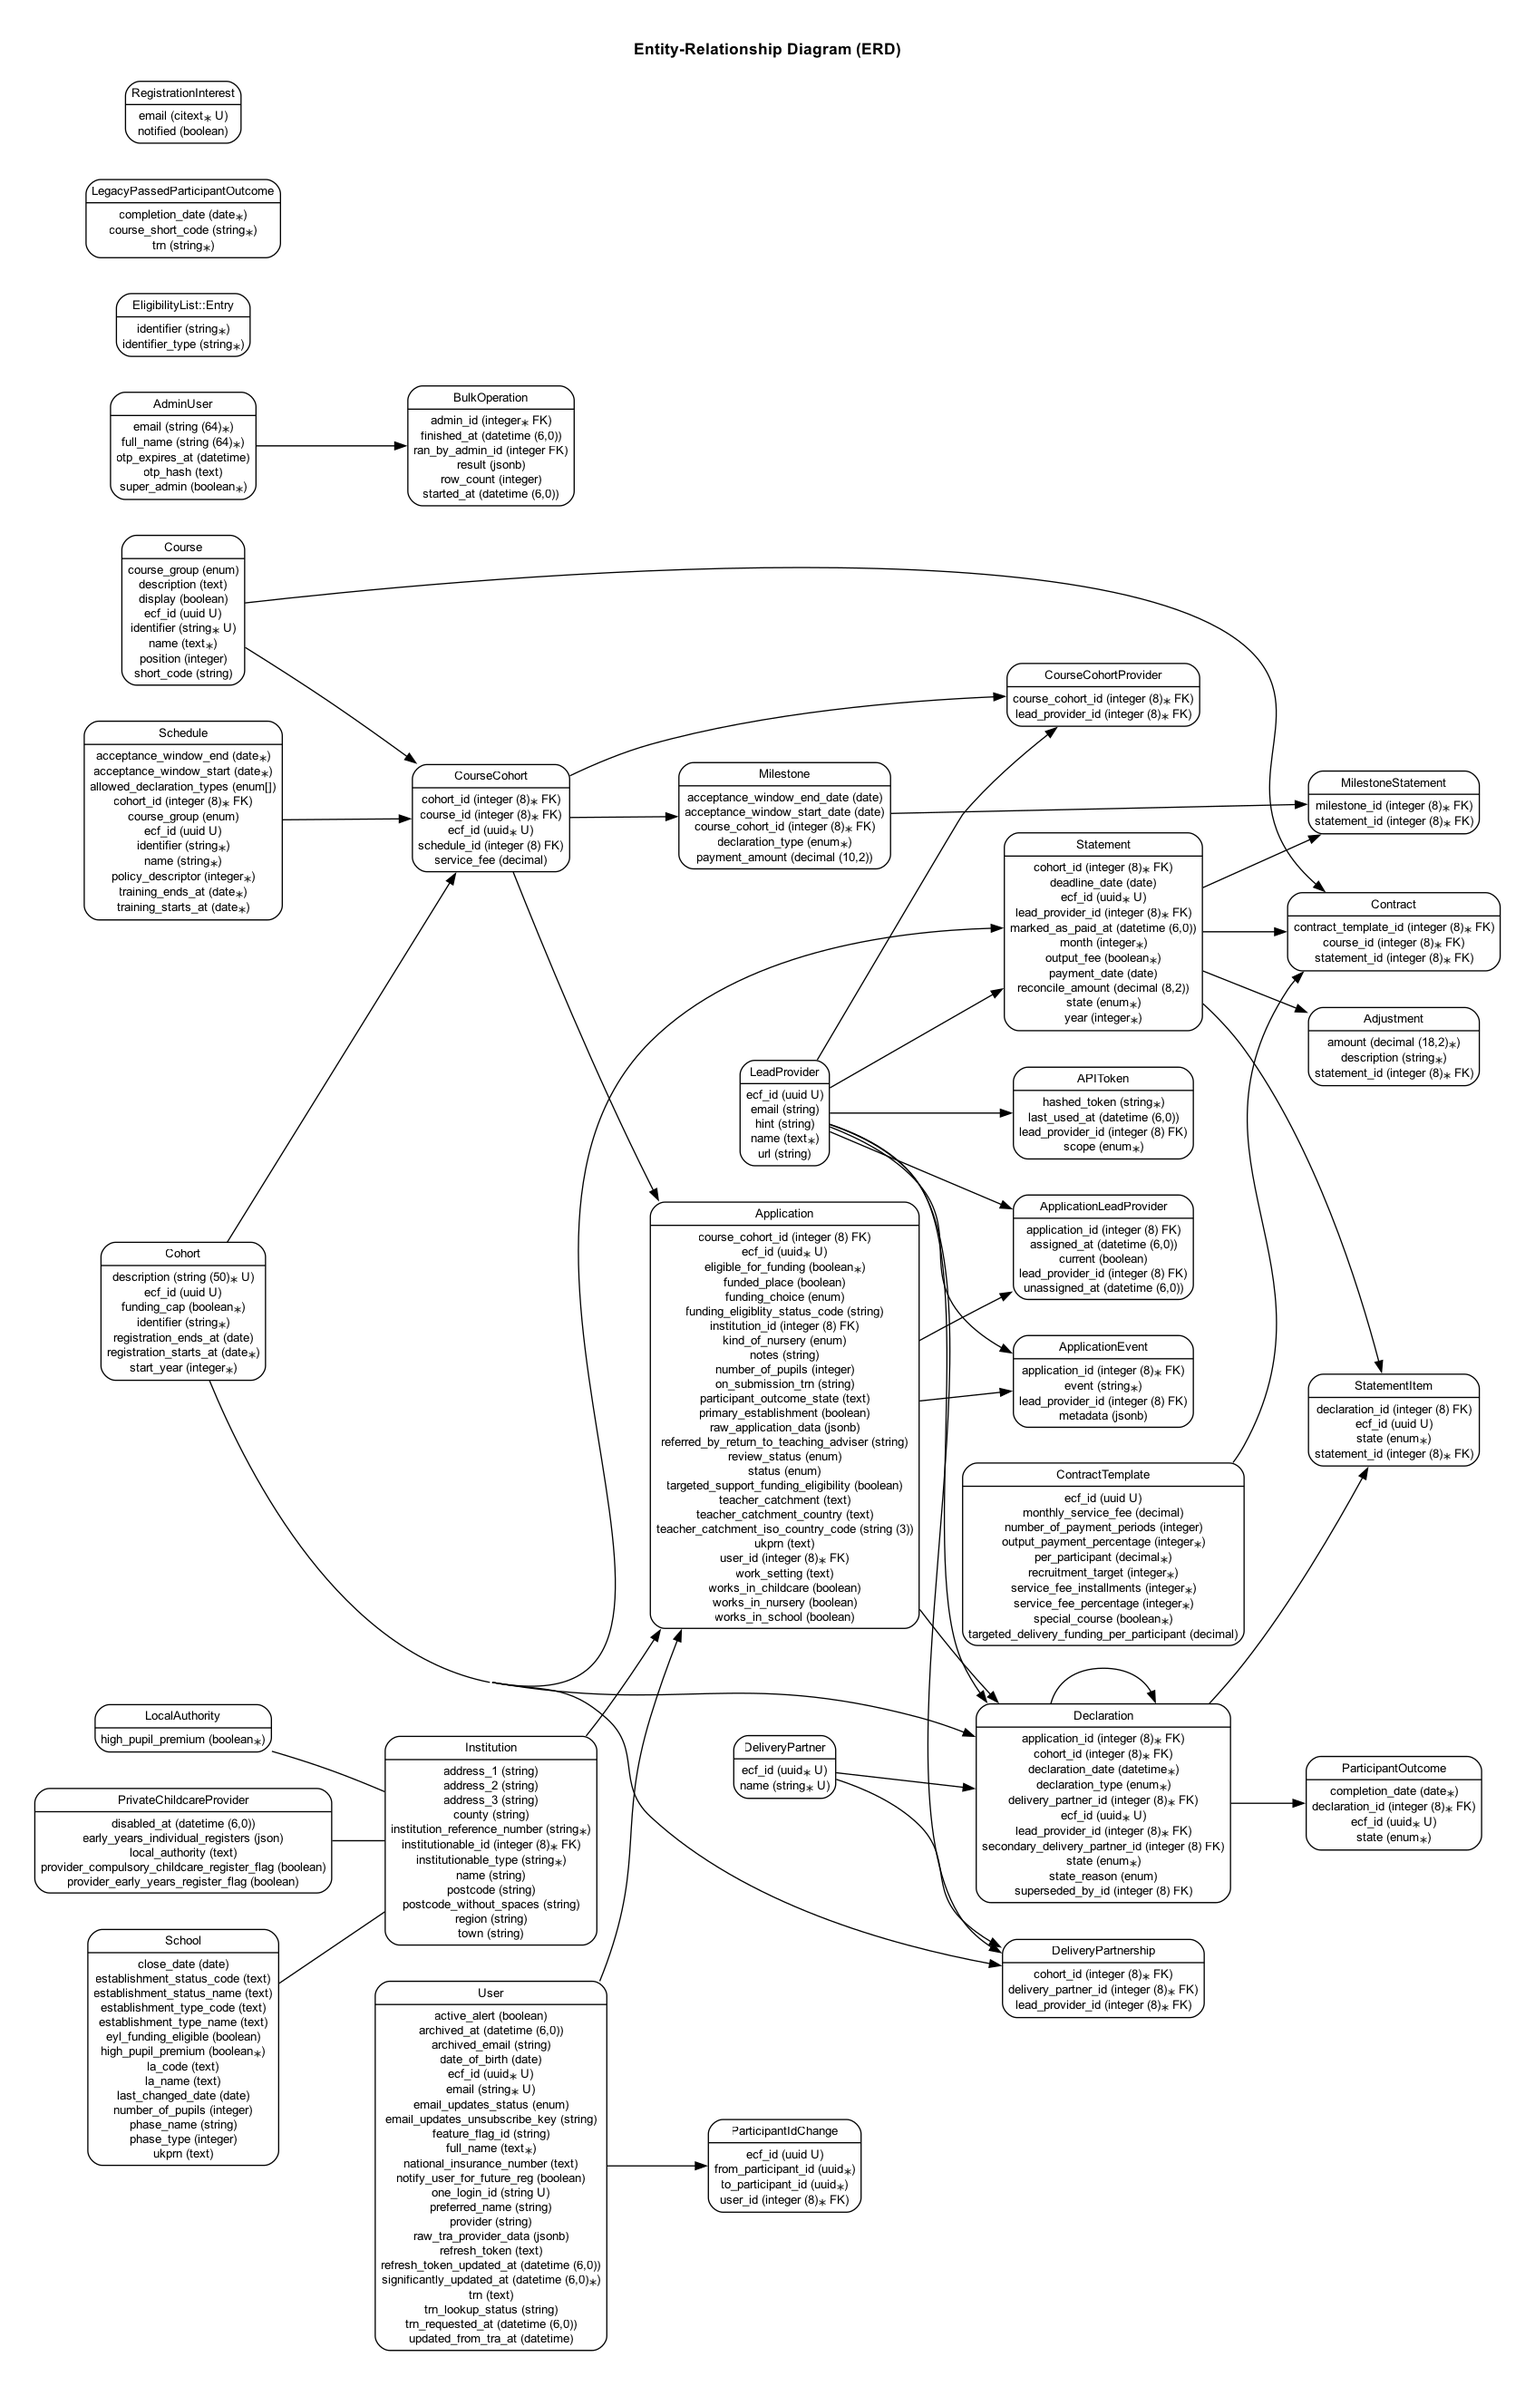
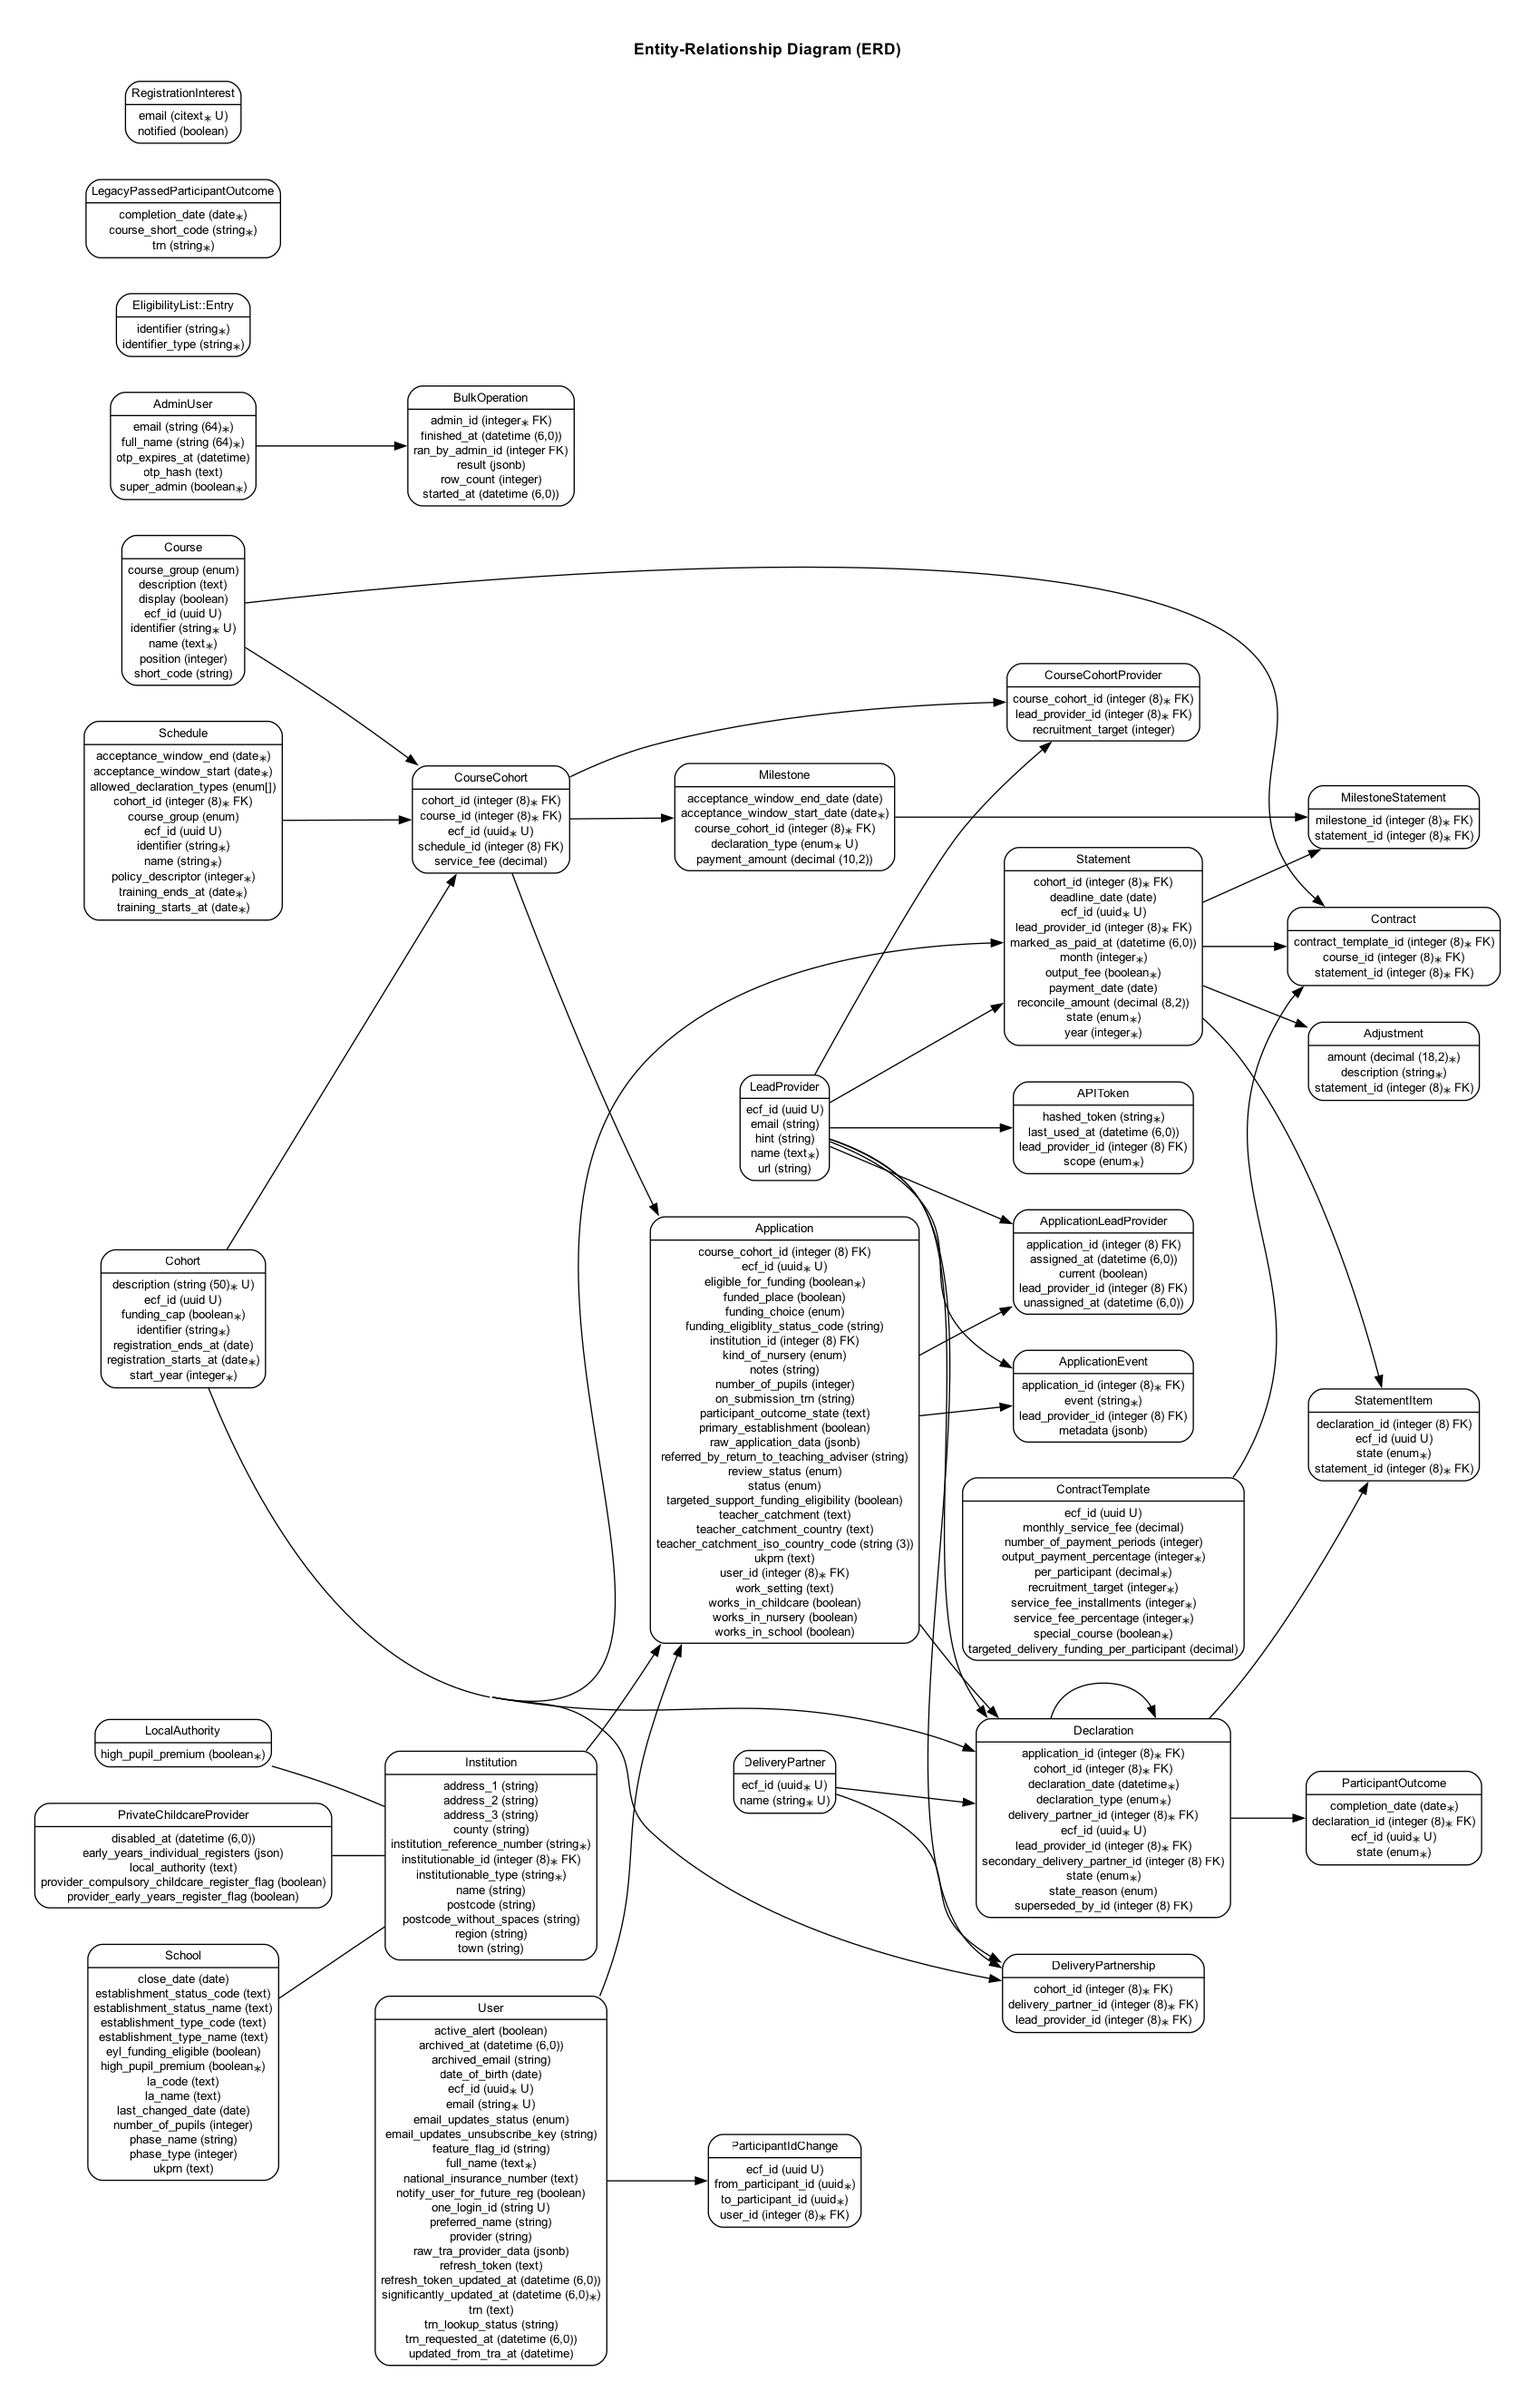
tweaks

diff --git a/spec/models/milestone_spec.rb b/spec/models/milestone_spec.rb
@@ -20,6 +20,64 @@ RSpec.describe Milestone, type: :model do
       it { is_expected.to have_error(:declaration_type, :inclusion, "The declaration type should be one of the ones allowed by the schedule") }
     end
 
+    context "when acceptance window start date is missing" do
+      subject(:milestone) { build(:milestone, acceptance_window_start_date: nil) }
+
+      it { is_expected.to have_error(:acceptance_window_start_date, :blank, "can't be blank") }
+    end
+
+    context "when creating a milestone with a declaration type that already exists for the course cohort" do
+      subject(:milestone) do
+        build(
+          :milestone,
+          course_cohort:,
+          declaration_type: "started",
+          acceptance_window_start_date: Date.new(2026, 2, 1),
+          acceptance_window_end_date: Date.new(2026, 2, 28),
+        )
+      end
+
+      let(:course_cohort) { create(:course_cohort) }
+
+      before do
+        create(
+          :milestone,
+          course_cohort:,
+          declaration_type: "started",
+          acceptance_window_start_date: Date.new(2026, 1, 1),
+          acceptance_window_end_date: Date.new(2026, 1, 31),
+        )
+      end
+
+      it { is_expected.to have_error(:declaration_type, :taken, "has already been taken") }
+    end
+
+    context "when creating a milestone with a declaration type that exists for another course cohort" do
+      let(:course_cohort) { create(:course_cohort) }
+
+      before do
+        create(
+          :milestone,
+          course_cohort: create(:course_cohort, cohort: create(:cohort, registration_starts_at: Date.new(2026, 2, 1))),
+          declaration_type: "started",
+          acceptance_window_start_date: Date.new(2026, 1, 1),
+          acceptance_window_end_date: Date.new(2026, 1, 31),
+        )
+      end
+
+      it "is valid" do
+        milestone = build(
+          :milestone,
+          course_cohort:,
+          declaration_type: "started",
+          acceptance_window_start_date: Date.new(2026, 1, 1),
+          acceptance_window_end_date: Date.new(2026, 1, 31),
+        )
+
+        expect(milestone).to be_valid
+      end
+    end
+
     context "when an acceptance window overlaps another milestone in the same course cohort" do
       subject(:milestone) do
         build(
@@ -101,10 +159,42 @@ RSpec.describe Milestone, type: :model do
 
   describe "#in_declaration_type_order" do
     let(:course_cohort) { create(:course_cohort) }
-    let(:started) { create(:milestone, declaration_type: "started", course_cohort:) }
-    let(:retained_1) { create(:milestone, declaration_type: "retained-1", course_cohort:) }
-    let(:retained_2) { create(:milestone, declaration_type: "retained-2", course_cohort:) }
-    let(:completed) { create(:milestone, declaration_type: "completed", course_cohort:) }
+    let(:started) do
+      create(
+        :milestone,
+        declaration_type: "started",
+        course_cohort:,
+        acceptance_window_start_date: Date.new(2026, 1, 1),
+        acceptance_window_end_date: Date.new(2026, 1, 31),
+      )
+    end
+    let(:retained_1) do
+      create(
+        :milestone,
+        declaration_type: "retained-1",
+        course_cohort:,
+        acceptance_window_start_date: Date.new(2026, 2, 1),
+        acceptance_window_end_date: Date.new(2026, 2, 28),
+      )
+    end
+    let(:retained_2) do
+      create(
+        :milestone,
+        declaration_type: "retained-2",
+        course_cohort:,
+        acceptance_window_start_date: Date.new(2026, 3, 1),
+        acceptance_window_end_date: Date.new(2026, 3, 31),
+      )
+    end
+    let(:completed) do
+      create(
+        :milestone,
+        declaration_type: "completed",
+        course_cohort:,
+        acceptance_window_start_date: Date.new(2026, 4, 1),
+        acceptance_window_end_date: Date.new(2026, 4, 30),
+      )
+    end
 
     before do
       # create deliberately out of order

diff --git a/db/migrate/20260715120000_add_course_cohort_reference_to_milestones.rb b/db/migrate/20260715120000_add_course_cohort_reference_to_milestones.rb
@@ -2,27 +2,17 @@ class AddCourseCohortReferenceToMilestones < ActiveRecord::Migration[8.1]
   disable_ddl_transaction!
 
   def up
-    unless column_exists?(:milestones, :course_cohort_id)
-      add_reference :milestones, :course_cohort, null: true, foreign_key: false, index: { algorithm: :concurrently }
-    end
-
     safety_assured do
-      execute <<~SQL.squish
-        UPDATE milestones
-        SET course_cohort_id = course_cohorts.id
-        FROM course_cohorts
-        WHERE course_cohorts.schedule_id = milestones.schedule_id
-          AND course_cohort_id IS NULL
-      SQL
+      # We're ok here because we don't have any milestones.
+      # rubocop:disable Rails/NotNullColumn
+      add_reference :milestones, :course_cohort, null: false, index: { algorithm: :concurrently }, foreign_key: true
+      # rubocop:enable Rails/NotNullColumn
     end
-
-    safety_assured { change_column_null :milestones, :course_cohort_id, false }
-    add_foreign_key :milestones, :course_cohorts, validate: false unless foreign_key_exists?(:milestones, :course_cohorts)
   end
 
   def down
-    remove_foreign_key :milestones, :course_cohorts
-    remove_index :milestones, :course_cohort_id, algorithm: :concurrently
-    remove_column :milestones, :course_cohort_id
+    remove_foreign_key :milestones, :course_cohorts if foreign_key_exists?(:milestones, :course_cohorts)
+    remove_index :milestones, :course_cohort_id, algorithm: :concurrently if index_exists?(:milestones, :course_cohort_id)
+    remove_column :milestones, :course_cohort_id if column_exists?(:milestones, :course_cohort_id)
   end
 end

diff --git a/spec/factories/statements.rb b/spec/factories/statements.rb
@@ -50,7 +50,29 @@ FactoryBot.define do
 
     trait :with_milestones do
       after :create do |statement|
-        create_list(:milestone_statement, 2, statement:)
+        course_cohort = create(:course_cohort, cohort: statement.cohort)
+        create(
+          :milestone_statement,
+          statement:,
+          milestone: create(
+            :milestone,
+            course_cohort:,
+            declaration_type: "started",
+            acceptance_window_start_date: Date.new(2026, 1, 1),
+            acceptance_window_end_date: Date.new(2026, 1, 31),
+          ),
+        )
+        create(
+          :milestone_statement,
+          statement:,
+          milestone: create(
+            :milestone,
+            course_cohort:,
+            declaration_type: "completed",
+            acceptance_window_start_date: Date.new(2026, 2, 1),
+            acceptance_window_end_date: Date.new(2026, 2, 28),
+          ),
+        )
       end
     end
   end

diff --git a/app/models/milestone.rb b/app/models/milestone.rb
@@ -5,7 +5,9 @@ class Milestone < ApplicationRecord
   has_many :statements, through: :milestone_statements
   belongs_to :course_cohort
 
+  validates :acceptance_window_start_date, presence: true
   validates :declaration_type, inclusion: Declaration::DECLARATION_TYPES
+  validates :declaration_type, uniqueness: { scope: :course_cohort_id }, if: :valid_declaration_type?
   validate :acceptance_window_does_not_overlap
 
   scope :in_declaration_type_order, -> { order(:declaration_type) }
@@ -29,5 +31,9 @@ private
       .exists?
 
     errors.add(:base, :overlapping_acceptance_window) if overlapping_milestone
+  end
+
+  def valid_declaration_type?
+    declaration_type.in?(Declaration::DECLARATION_TYPES.map(&:to_s))
   end
 end

diff --git a/db/schema.rb b/db/schema.rb
@@ -419,6 +419,7 @@ ActiveRecord::Schema[8.1].define(version: 2026_07_16_095648) do
     t.enum "declaration_type", null: false, enum_type: "declaration_types"
     t.decimal "payment_amount", precision: 10, scale: 2
     t.datetime "updated_at", null: false
+    t.index ["course_cohort_id", "declaration_type"], name: "index_milestones_on_course_cohort_id_and_declaration_type", unique: true
     t.index ["course_cohort_id"], name: "index_milestones_on_course_cohort_id"
   end
 

diff --git a/db/migrate/20260715120200_add_window_and_payment_fields_to_milestones.rb b/db/migrate/20260715120200_add_window_and_payment_fields_to_milestones.rb
@@ -1,7 +1,5 @@
 class AddWindowAndPaymentFieldsToMilestones < ActiveRecord::Migration[8.1]
   def change
-    validate_foreign_key :milestones, :course_cohorts
-
     add_column :milestones, :acceptance_window_start_date, :date
     add_column :milestones, :acceptance_window_end_date, :date
     add_column :milestones, :payment_amount, :decimal, precision: 10, scale: 2

diff --git a/db/migrate/20260715120300_add_unique_index_to_milestones_on_course_cohort_and_declaration_type.rb b/db/migrate/20260715120300_add_unique_index_to_milestones_on_course_cohort_and_declaration_type.rb
@@ -1,0 +1,10 @@
+class AddUniqueIndexToMilestonesOnCourseCohortAndDeclarationType < ActiveRecord::Migration[8.1]
+  disable_ddl_transaction!
+
+  def change
+    add_index :milestones,
+              %i[course_cohort_id declaration_type],
+              unique: true,
+              algorithm: :concurrently
+  end
+end

diff --git a/spec/factories/milestones.rb b/spec/factories/milestones.rb
@@ -1,6 +1,8 @@
 FactoryBot.define do
   factory :milestone do
     declaration_type { :started }
+    acceptance_window_start_date { Time.zone.today }
+    acceptance_window_end_date { 1.month.from_now.to_date }
     course_cohort
   end
 end

diff --git a/documentation/domain-model.md b/documentation/domain-model.md
@@ -113,8 +113,8 @@ erDiagram
     datetime created_at
     uuid ecf_id
     integer schedule_id
-    datetime updated_at
     decimal service_fee
+    datetime updated_at
   }
   CourseCohort }o--|| Course : belongs_to
   CourseCohort }o--|| Cohort : belongs_to
